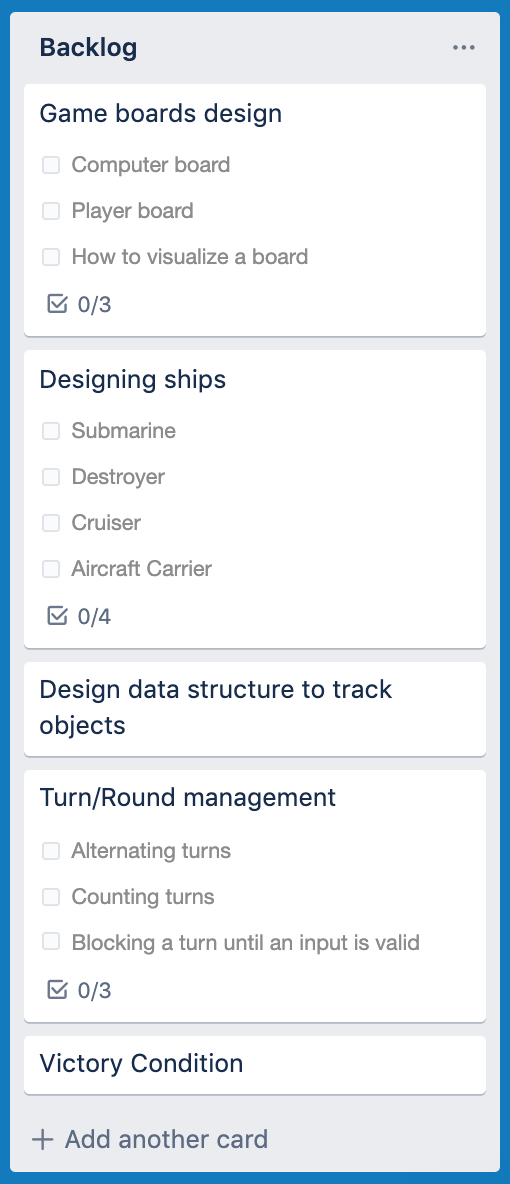
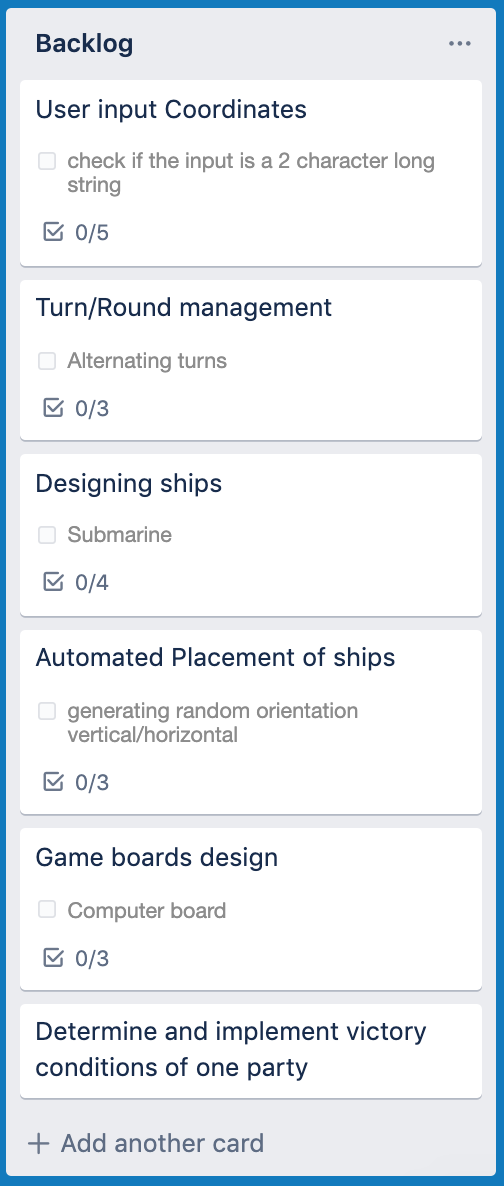
Updated Trello screenshots and README file with bigger images

Changed region(s): [[0.0, 0.0, 0.9821, 1.0], [0.9821, 0.0312, 1.0, 0.9688], [0.9524, 0.9688, 0.9821, 1.0]]

diff --git a/README.md b/README.md
@@ -100,9 +100,17 @@ I decided to break down the project into several smaller tasks, so that it would
 |Automatic ship placement|◼ generating random orientation vertical/horizontal<br />◼ generating random coordinates to place a ship<br />◼ verify if the calculated position would fit ships of different sizes<br />◼ checking if every cell needed to sit a ship is not occupied<br />|High|04/09/2019|
 |Help message| ◼ Research ARGV<br />◼ Design a method to print out the help msg<br />◼ Implement the condition to deviate the normal flow of the app to the help msg method |Low|05/09/2019|
 
-Here is what my Trello board looked like after finishing breaking down the project into smaller elements
+On the 2nd of September, here is what my Trello board looked like after finishing breaking down the project into smaller elements
 
 <img src="docs/00_trello_backlog.png" alt="Backlog Github" width="250"/>
+
+On the 5th of September, here is how my Trello board evolved: more tasks have been added as a conseguence of:
+* New ideas
+* Nice-to-have features
+* Lack of task planning
+* Bugs
+
+<img src="docs/10_trello_backlog.png" alt="Backlog Github" width="500"/>
 
 ### Features
 
